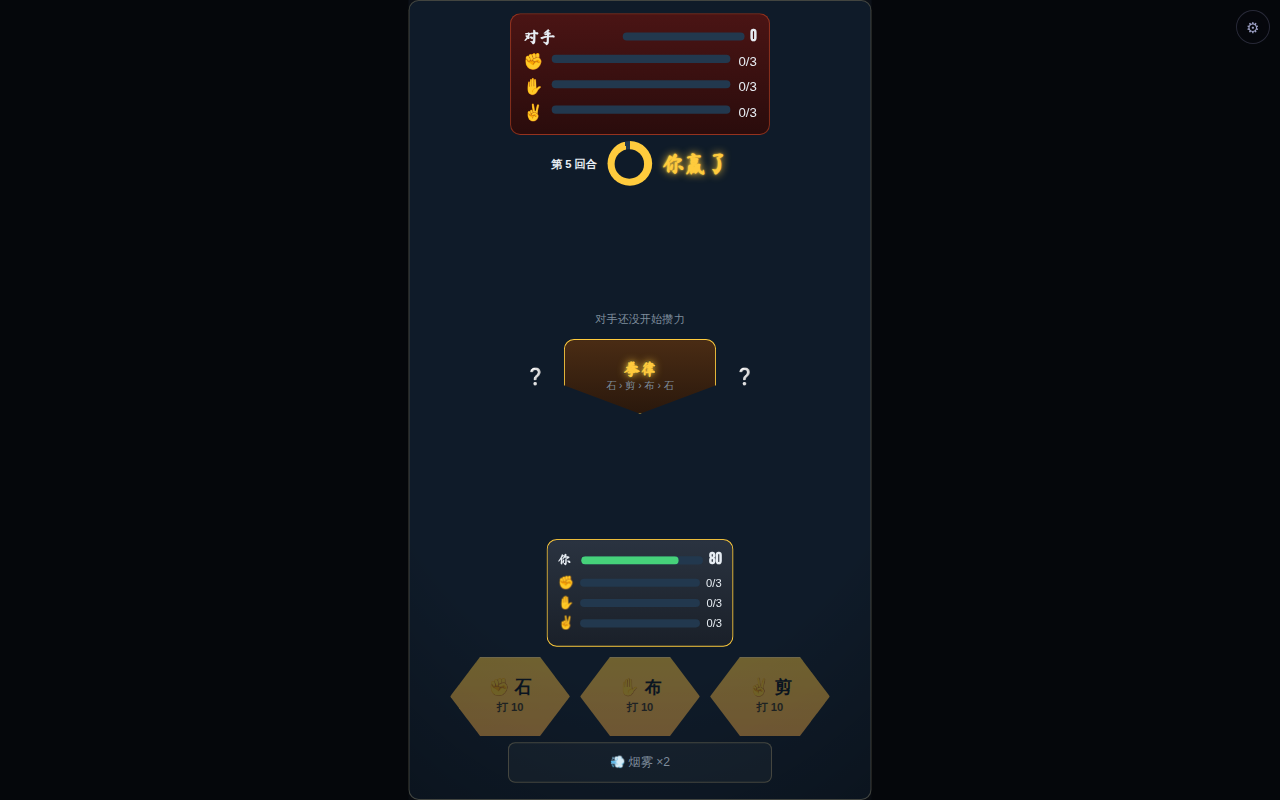
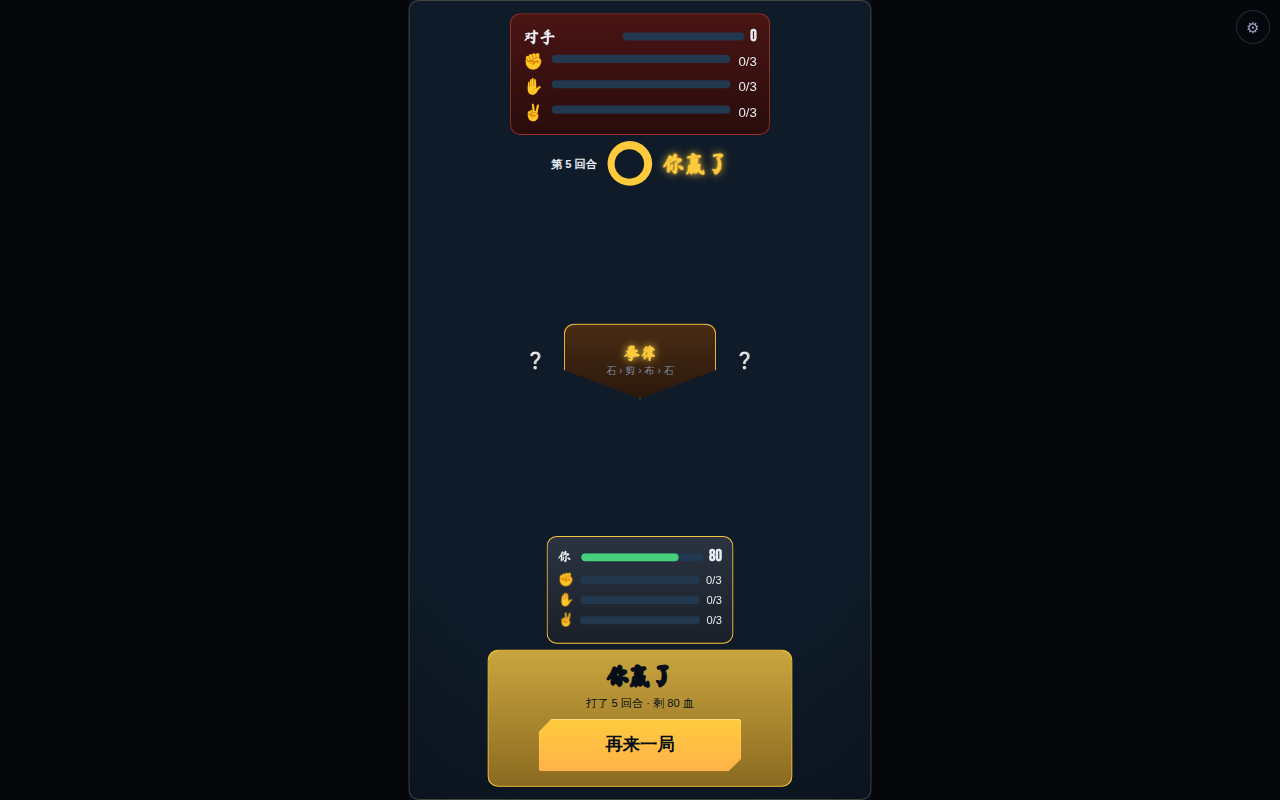
fix(game108): 终局屏——赢了不再是死路
真渲染目击：赢了之后中区还在念「对手还没开始攒力」（读牌区没排除终局态·我上一轮引入的），
三个对局键还亮着、点了没用，**玩家卡在死路上没有出口**（ui-inventory 也点名过 duel.next 够不着）。

现在终局出结束面板：胜负 + 「打了 N 回合 · 剩 M 血」+ **再来一局**键（action=duel.next），
对局键收起。**注意：按钮已在屏上，但 duel.next 的世界侧还没接**——
p1win/p2win 在 flow 里没有任何 transition，点了还是不会重开。
重开要把双方 hp 复位，而两侧 hp 共用同一个 id ⇒ 又撞「全局 id 路由 vs 按侧」那堵墙（第 5 次），
**先如实留着，不半做**。

试玩 30 条全过 · 门禁 full 全绿（退出码核对）。

Claude-Session: https://claude.ai/code/session_01CxgHiwPr3Q9y3548zpXfcV

diff --git a/games/game108/duel-screen.ts b/games/game108/duel-screen.ts
@@ -40,6 +40,9 @@ export interface DuelView {
   tell?: string;
 }
 
+/** 局已结束（胜/负）——终局态的屏跟对局中不是同一屏，别让对局件继续说话。 */
+const isOver = (p: Phase): boolean => p === 'p1win' || p === 'p2win';
+
 const PHASE_CN: Record<Phase, string> = {
   charge: '蓄力', throw: '出招', clash: '对决', settle: '结算', p1win: '你赢了', p2win: '你输了',
 };
@@ -192,7 +195,8 @@ function tableRow(view: DuelView): LayoutNode {
  * 这不是装饰，是七问第 1 问的落点——核心信息该在屏上最重的位置。
  */
 function readingArea(view: DuelView): LayoutNode | null {
-  if (view.phase === 'clash' || view.phase === 'settle') return null;
+  // 终局态也要闭嘴——第一版没排除，赢了之后中区还在念「对手还没开始攒力」（真渲染目击）。
+  if (view.phase === 'clash' || view.phase === 'settle' || isOver(view.phase)) return null;
   let top: Hand = 'rock';
   for (const h of HANDS) if (view.charge.p2[h] > view.charge.p2[top]) top = h;
   const lv = view.charge.p2[top];
@@ -327,6 +331,27 @@ function actionRow(view: DuelView): LayoutNode {
   };
 }
 
+/**
+ * 终局面板。第一版**根本没有**——赢了只是相位名换成「你赢了」，三个对局键还亮着、点了没用，
+ * 玩家**卡在死路上没有出口**（真渲染目击 + `ui-inventory` 点名 `duel.next` 够不着）。
+ */
+function endPanel(view: DuelView): LayoutNode {
+  const won = view.phase === 'p1win';
+  return {
+    type: 'Panel', id: 'end', props: { bg: won ? 'gold-sheen' : 'blood', edge: (won ? 'gold' : 'danger') as 'gold' | 'danger' },
+    layout: { direction: 'column', align: 'center', gap: 8, padding: 14, width: 300 },
+    children: [
+      { type: 'Label', id: 'end-t', props: { text: won ? '你赢了' : '你输了', font: 'cnbrush', size: 'xl', color: won ? 'ink' : 'text', bold: true, stroke: true } },
+      { type: 'Label', id: 'end-s', props: { text: `打了 ${view.round} 回合 · 剩 ${view.hp.p1} 血`, size: 'sm', color: won ? 'ink' : 'sub' } },
+      {
+        type: 'Button', id: 'key-next',
+        props: { label: '再来一局', kind: 'hero', action: ACT.next },
+        layout: { width: 200, height: 52, press3d: true },
+      },
+    ],
+  };
+}
+
 /** 对局屏（S-03）。信息层级：对手槽 > 亮手/结果 > 我方槽 > 键。 */
 export function buildDuelScreen(view: DuelView): LayoutNode {
   const banner = outcomeBanner(view);
@@ -347,7 +372,7 @@ export function buildDuelScreen(view: DuelView): LayoutNode {
         ],
       },
       selfPanel(view),
-      actionRow(view),
+      isOver(view.phase) ? endPanel(view) : actionRow(view),
     ],
   };
 }
